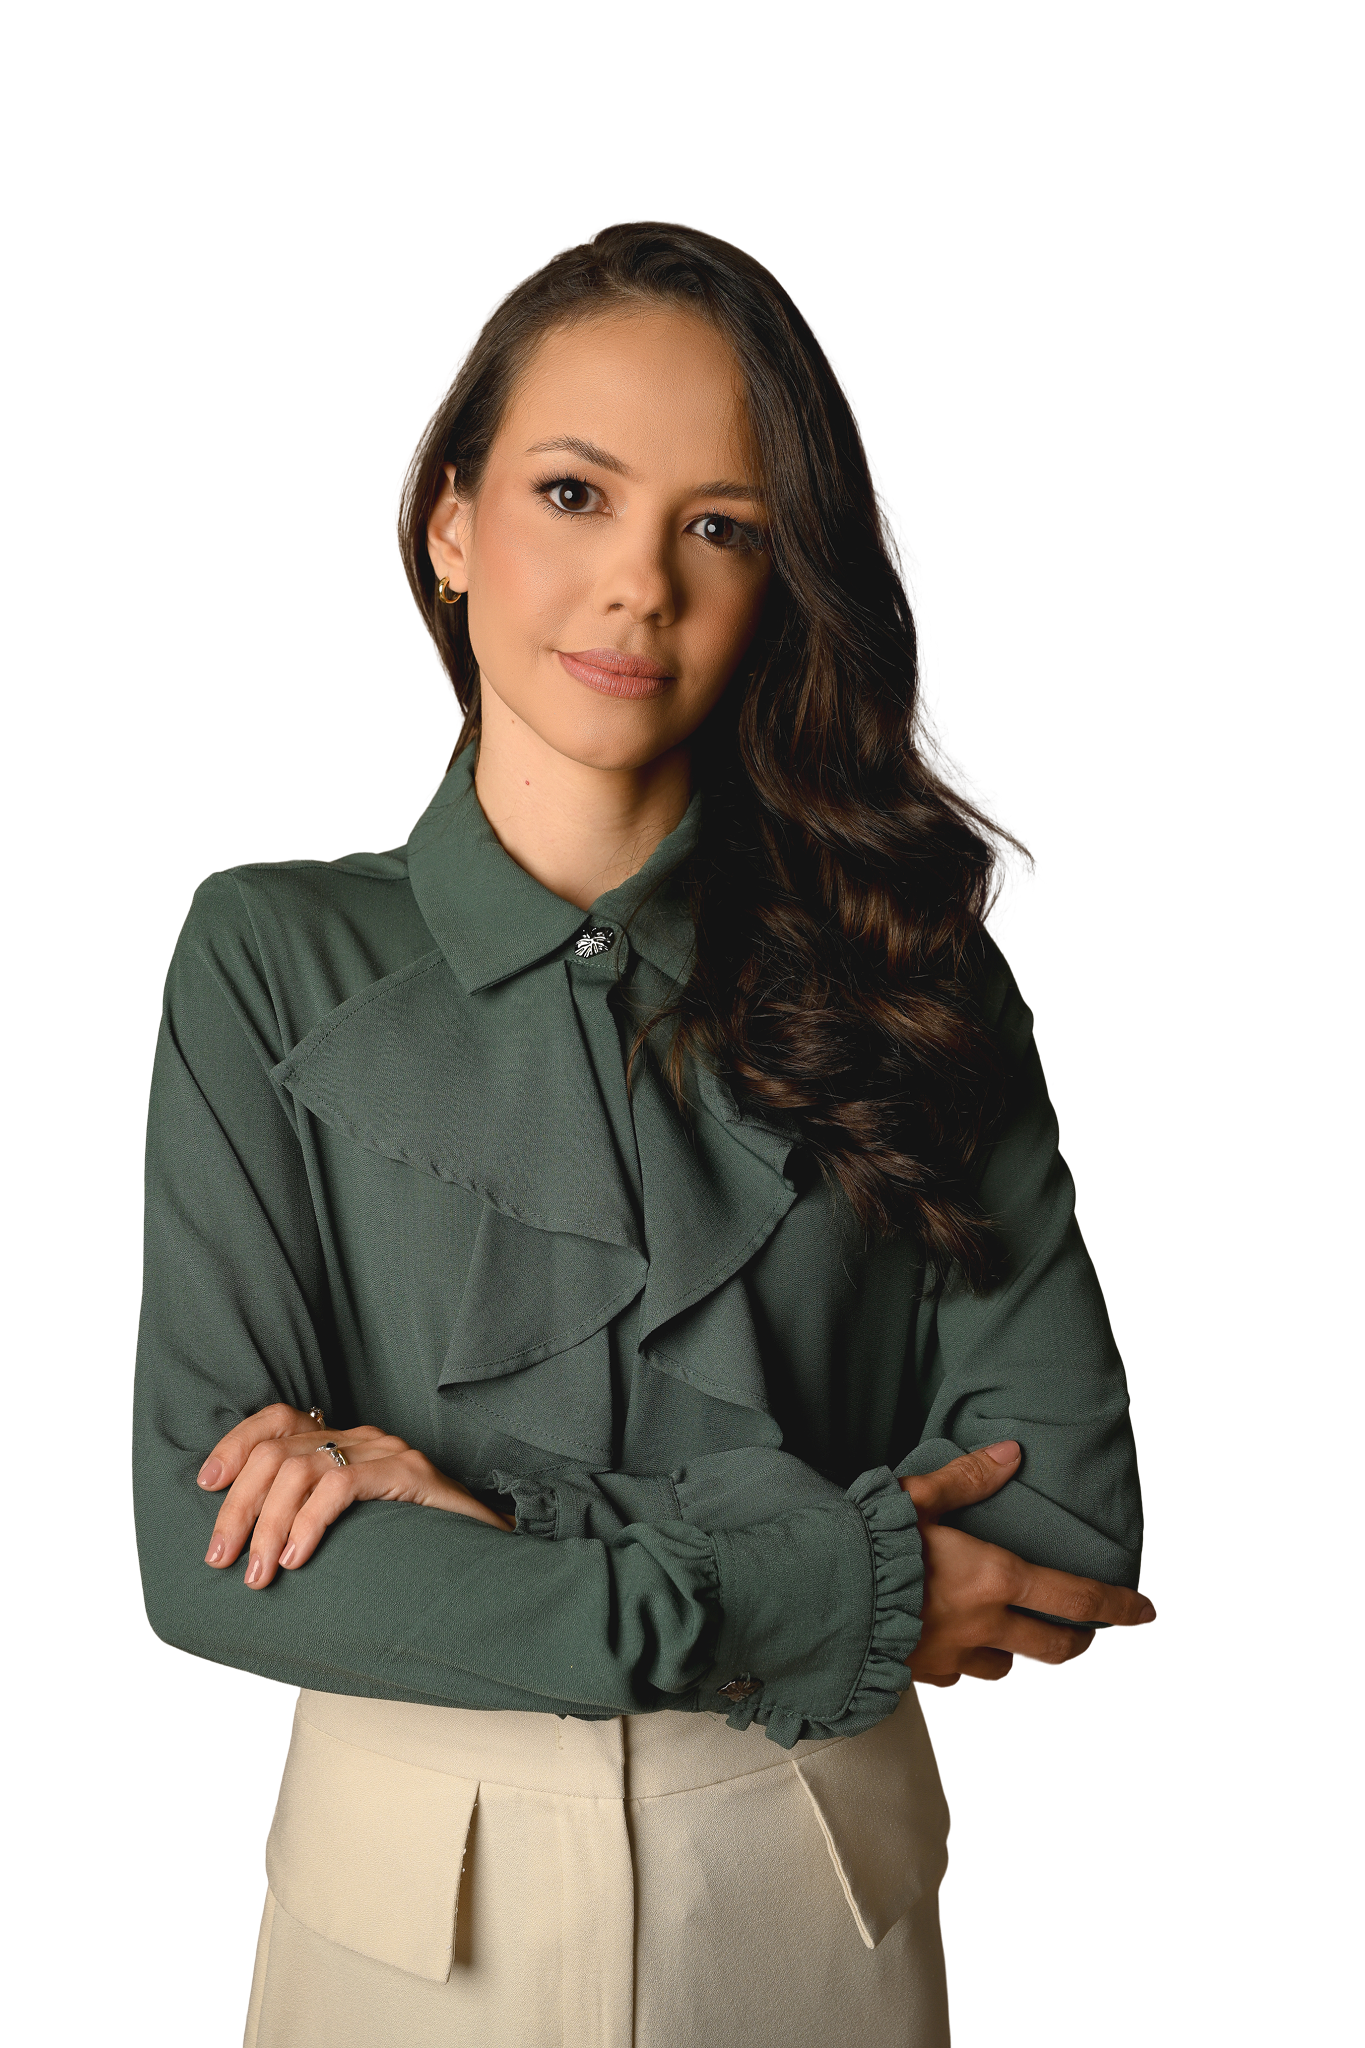
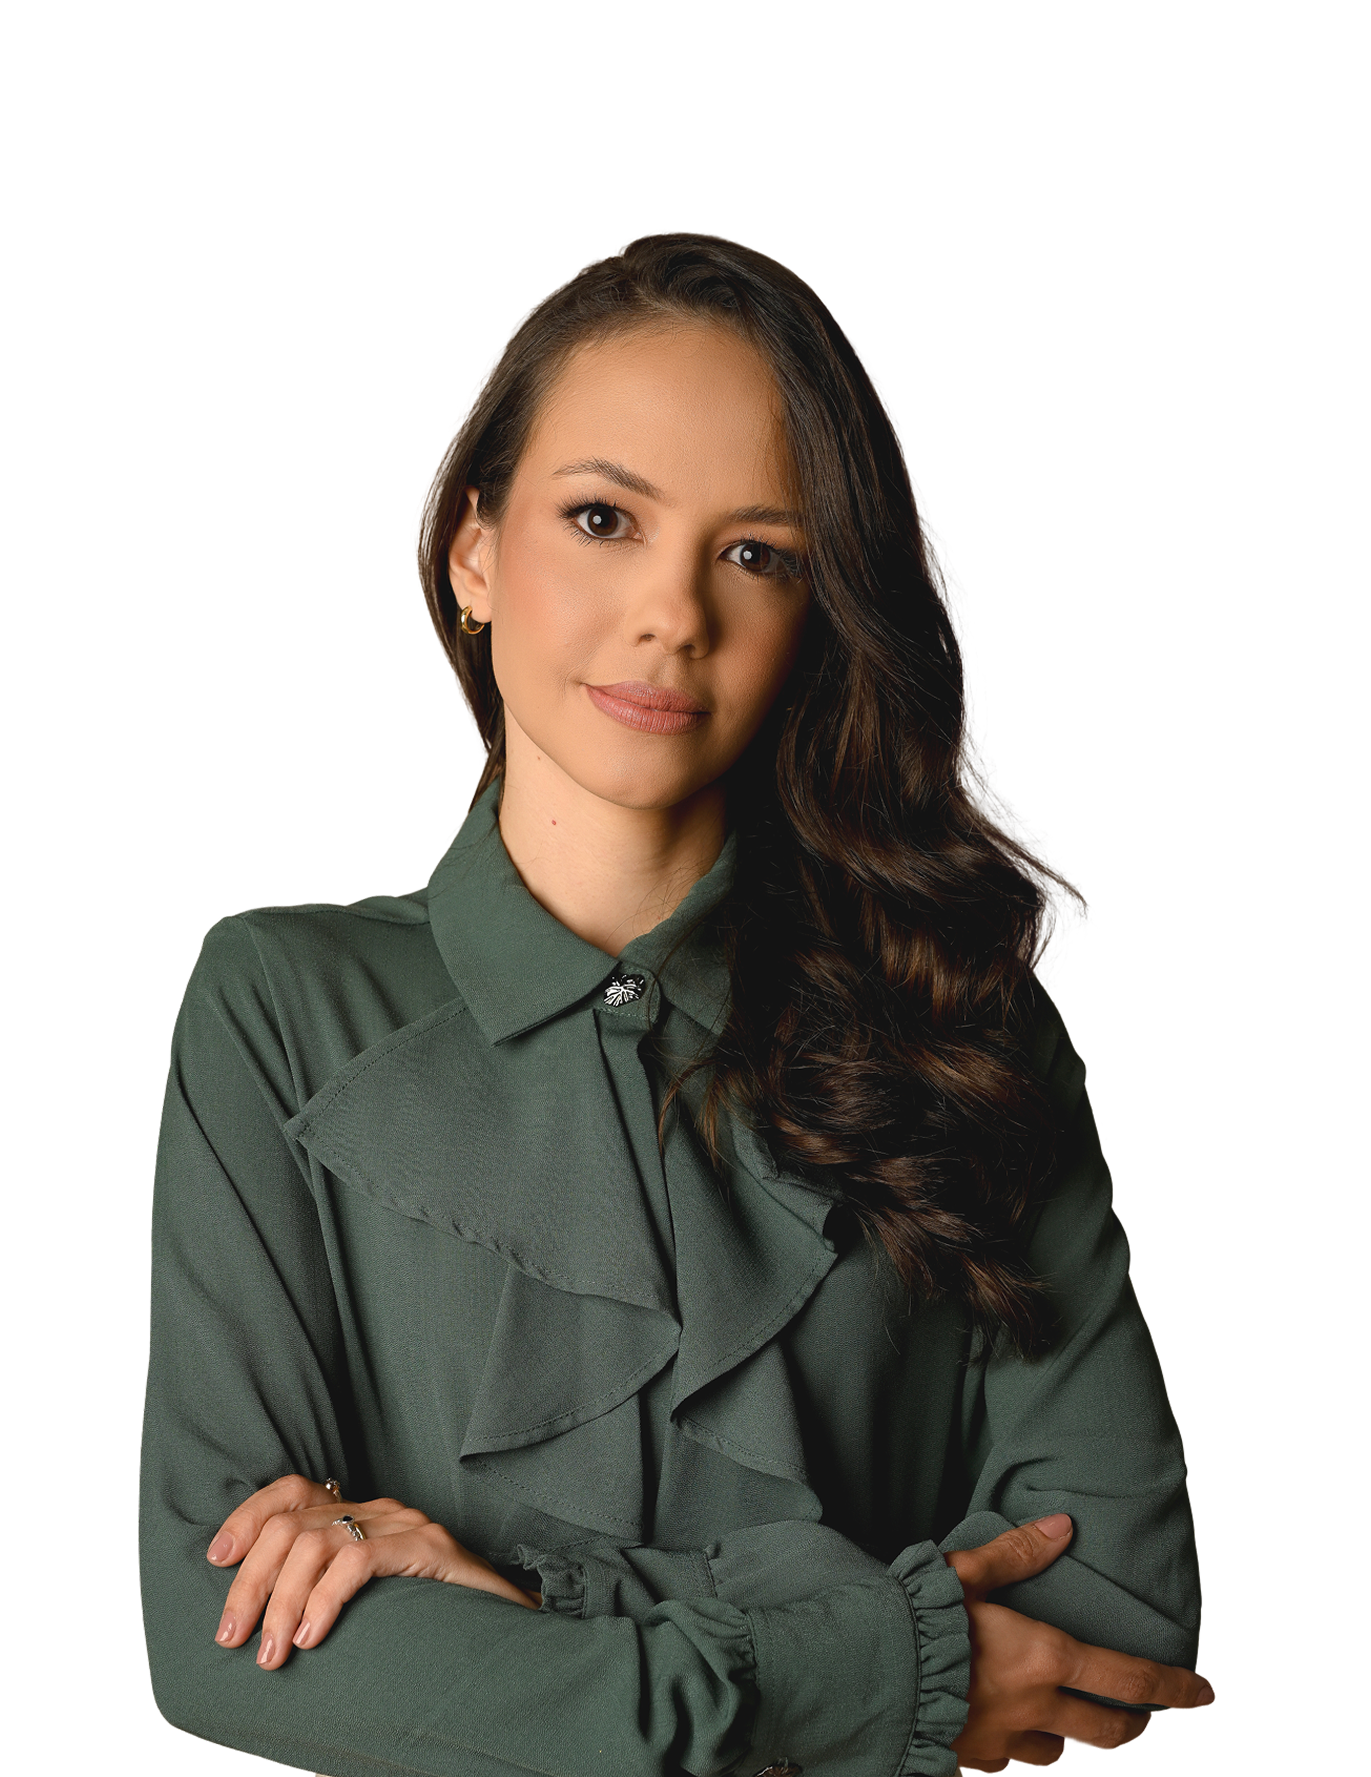
Remove a lógica de transição de imagens no componente Hero e substitui a imagem dinâmica por uma imagem fixa (01.png), simplificando a implementação e melhorando a performance.

diff --git a/src/components/sections/Hero.tsx b/src/components/sections/Hero.tsx
@@ -1,6 +1,6 @@
 'use client';
 
-import React, { useEffect, useRef, useState } from 'react';
+import React, { useEffect, useRef } from 'react';
 import { useContent } from '@/lib/contentContext';
 import Image from 'next/image';
 import Link from 'next/link';
@@ -19,37 +19,6 @@ const Hero = ({ page }: HeroProps) => {
   const { pageContent, isLoading } = useContent();
   const imageRef = useRef<HTMLDivElement>(null);
   const iconsRef = useRef<HTMLDivElement>(null);
-  const [currentImage, setCurrentImage] = useState<number>(1);
-  const [isTransitioning, setIsTransitioning] =
-    useState<boolean>(false);
-
-  // Transição automática entre imagens com animação melhorada
-  useEffect(() => {
-    const imageInterval = setInterval(() => {
-      setIsTransitioning(true);
-      setTimeout(() => {
-        setCurrentImage((prev) => (prev === 1 ? 2 : 1));
-        setTimeout(() => {
-          setIsTransitioning(false);
-        }, 300);
-      }, 700);
-    }, 6000); // Intervalo um pouco maior para apreciar melhor cada imagem
-
-    return () => clearInterval(imageInterval);
-  }, []);
-
-  // Função para trocar imagem manualmente com animação
-  const changeImage = (imageNumber: number) => {
-    if (currentImage === imageNumber) return;
-
-    setIsTransitioning(true);
-    setTimeout(() => {
-      setCurrentImage(imageNumber);
-      setTimeout(() => {
-        setIsTransitioning(false);
-      }, 300);
-    }, 700);
-  };
 
   // Animação suave ao carregar a página
   useEffect(() => {
@@ -211,38 +180,14 @@ const Hero = ({ page }: HeroProps) => {
 
               <div className="relative w-full h-full">
                 <Image
-                  src={`/images/0${currentImage}.png`}
+                  src="/images/01.png"
                   alt={title}
                   fill
-                  className={`object-contain transition-all duration-1000 ease-in-out ${isTransitioning ? 'opacity-0 scale-[1.02]' : 'opacity-100 scale-100'}`}
+                  className="object-contain transition-all duration-300 ease-in-out hover:scale-105"
                   priority
                   style={{
                     transformOrigin: 'center center',
                   }}
-                  onMouseOver={(e) => {
-                    if (!isTransitioning) {
-                      e.currentTarget.style.transform = 'scale(1.03)';
-                    }
-                  }}
-                  onMouseOut={(e) => {
-                    if (!isTransitioning) {
-                      e.currentTarget.style.transform = 'scale(1)';
-                    }
-                  }}
-                />
-              </div>
-
-              {/* Controles de navegação manual para as imagens - redesenhados */}
-              <div className="absolute bottom-6 left-0 right-0 flex justify-center space-x-3">
-                <button
-                  onClick={() => changeImage(3)}
-                  className={`w-3 h-3 rounded-full transition-all duration-500 ease-in-out ${currentImage === 3 ? 'bg-[#5C6857] scale-125' : 'bg-gray-300 hover:bg-gray-400'}`}
-                  aria-label="Imagem 3"
-                />
-                <button
-                  onClick={() => changeImage(4)}
-                  className={`w-3 h-3 rounded-full transition-all duration-500 ease-in-out ${currentImage === 4 ? 'bg-[#5C6857] scale-125' : 'bg-gray-300 hover:bg-gray-400'}`}
-                  aria-label="Imagem 4"
                 />
               </div>
 
